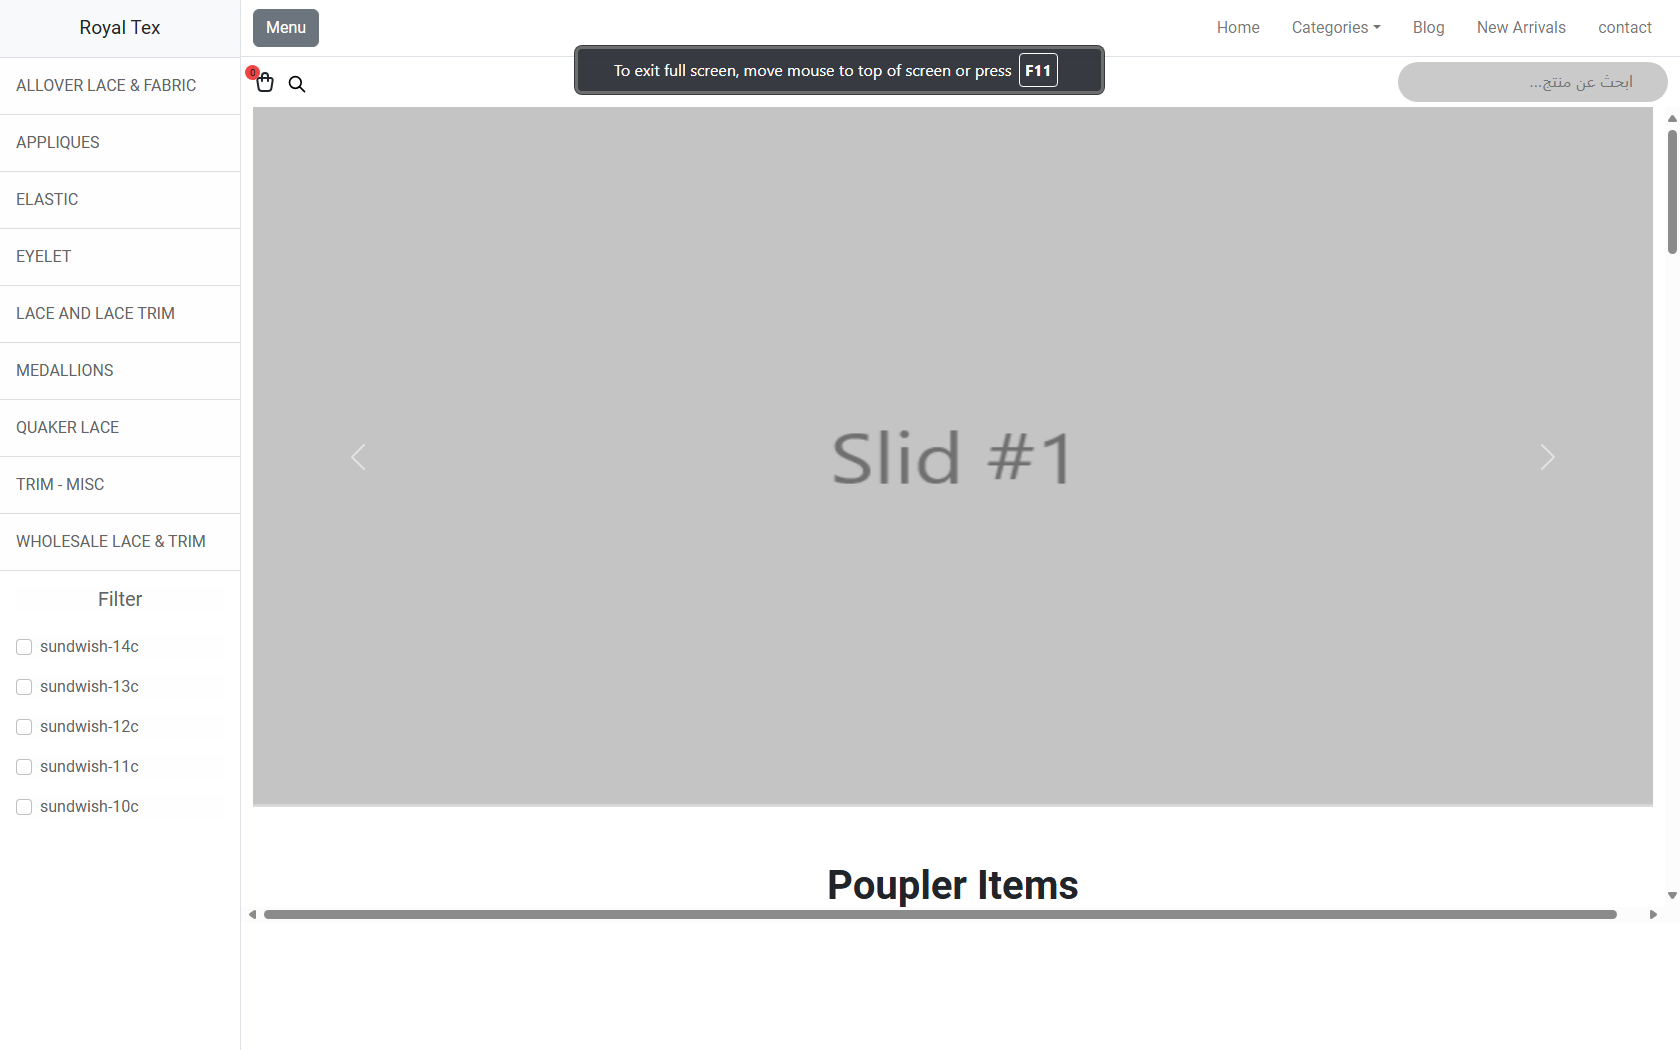
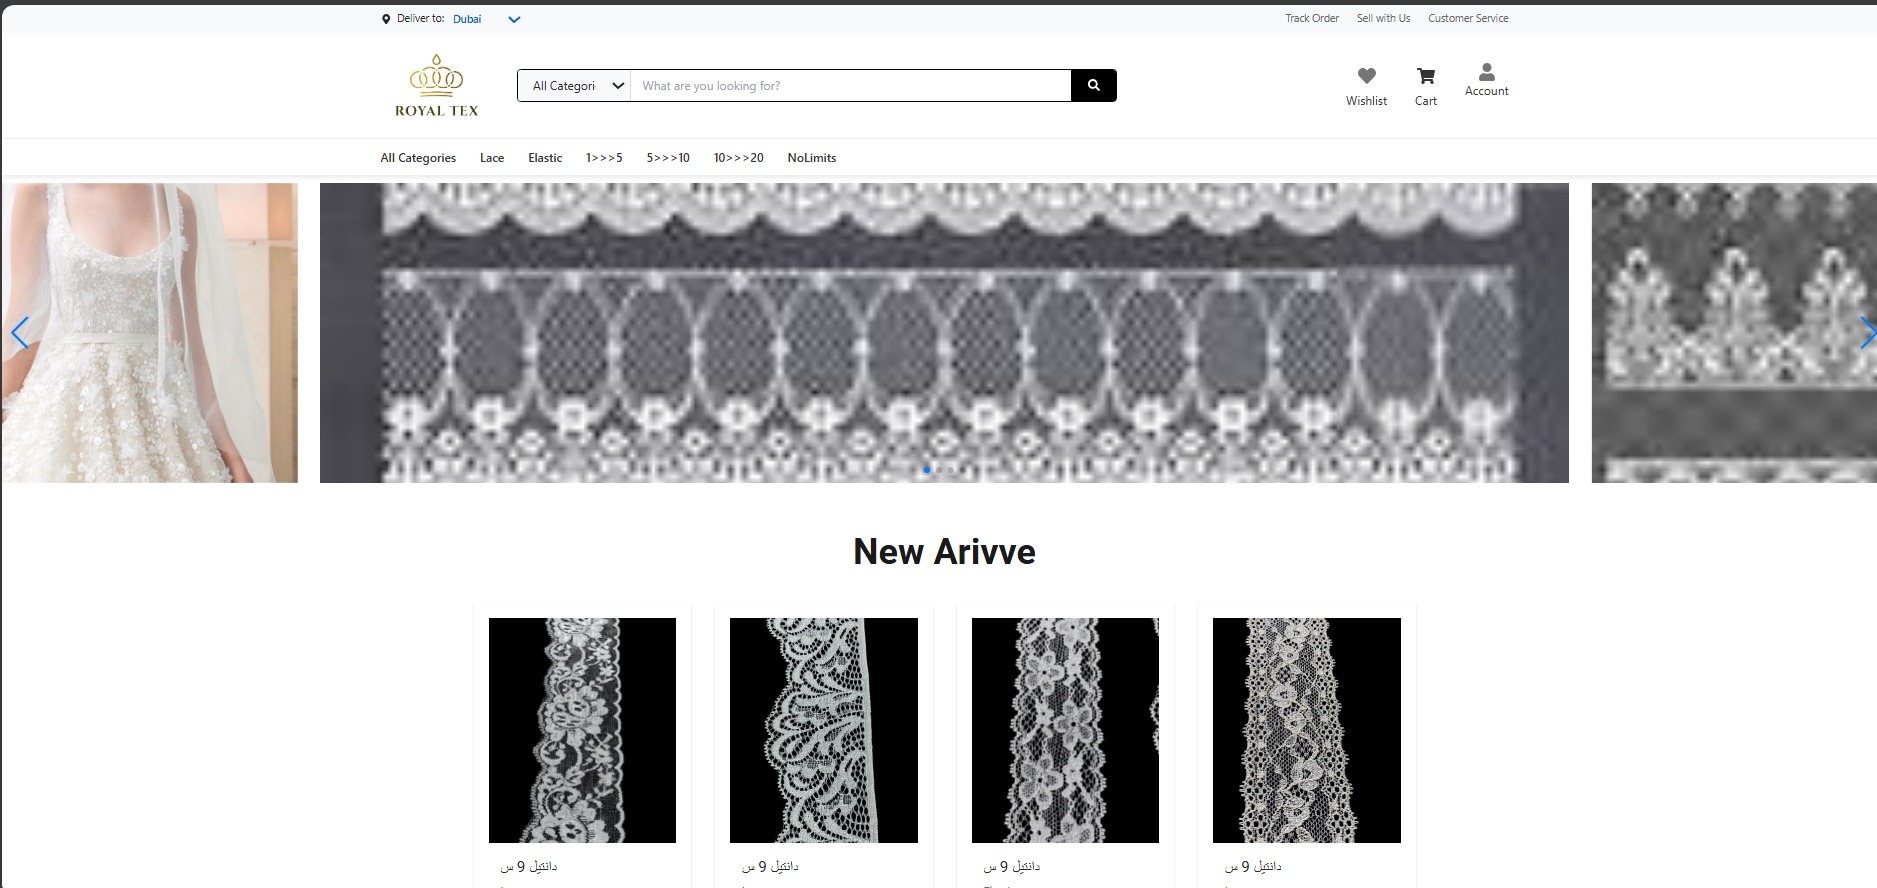
oo

diff --git a/src/Components/3-Menu/MyProject.jsx b/src/Components/3-Menu/MyProject.jsx
@@ -6,13 +6,13 @@ export const MyProjects = [
       githubLink: "https://github.com/Belalalimam/Rosebut",
       liveDemo: "https://rosebut.vercel.app/"
     },
-    // {
-    //   projectTitle: "Royal Tex",
-    //   category: ["css" , "js"],
-    //   imgPath: "./images/Royal.png",
-    //   githubLink: "https://github.com/Belalalimam/ROYAL-TEX",
-    //   liveDemo: "https://royal-secon.vercel.app/"
-    // },
+    {
+      projectTitle: "Royal Tex",
+      category: ["css" , "js"],
+      imgPath: "./images/Royal.png",
+      githubLink: "https://github.com/Belalalimam/ROYAL-TEX-2",
+      liveDemo: "https://royal-tex.shutterfly-alu.com/"
+    },
     {
       projectTitle: "The-Holy-Quran",
       category: ["css", "js"],
@@ -32,7 +32,7 @@ export const MyProjects = [
       category: ["react" , "API"],
       imgPath: "./images/The gate of quran.png",
       githubLink: "https://github.com/Belalalimam/The-Gate-Of-Quran",
-      liveDemo: "https://cheerful-longma-9a2c48.netlify.app/"
+      liveDemo: "https://the-gate-of-quran.netlify.app"
     },
     {
       projectTitle: "Shutter Fly",

diff --git a/src/Components/2-Hero/Hero.jsx b/src/Components/2-Hero/Hero.jsx
@@ -9,7 +9,7 @@ export default function Hero() {
     <section className="hero flex">
       <div className="left-section ">
         <div className="parent-avatar flex">
-          <img src="./images/Belal-Pic.jpg" className="avatar" alt="" />
+          <img src="./images/Belal.jpg" className="avatar" alt="" />
           <div className="icon-verified" />
         </div>
         <h1 className="title">

diff --git a/index.html b/index.html
@@ -3,7 +3,7 @@
   <head>
     <meta charset="UTF-8" />
     <meta name="viewport" content="width=device-width, initial-scale=1.0" />
-    <link rel="icon" type="image/svg+xml" href="./images/Belal-Pic.jpg" />
+    <link rel="icon" type="image/svg+xml" href="./images/Belal.jpg" />
     <title>Belal Alimam</title>
     <link rel="stylesheet" href="/style.css">
   </head>
